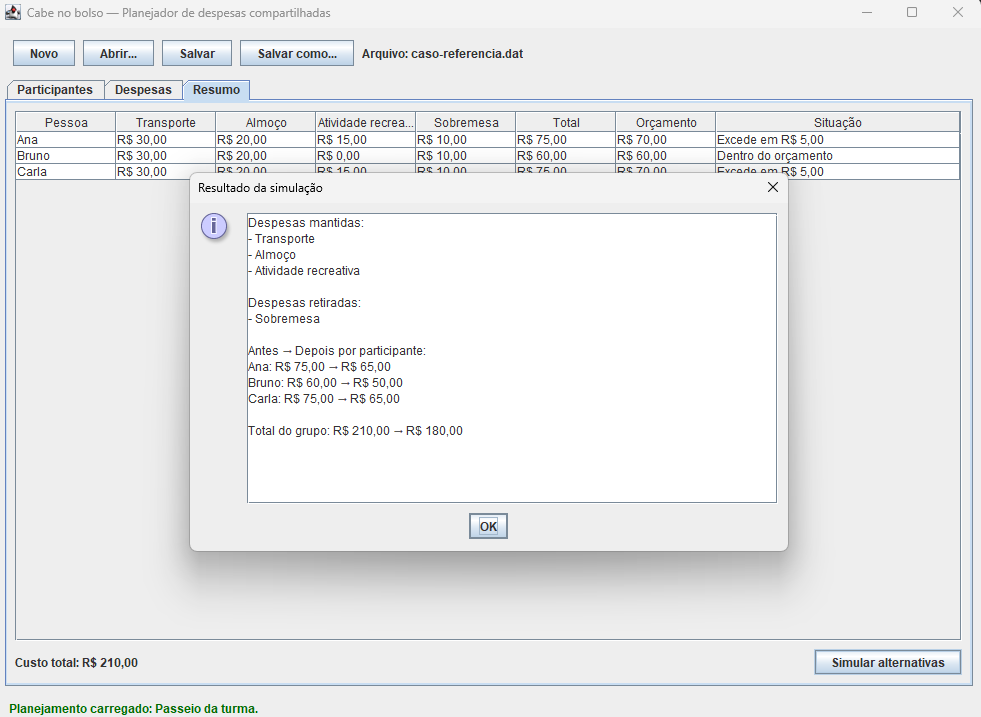
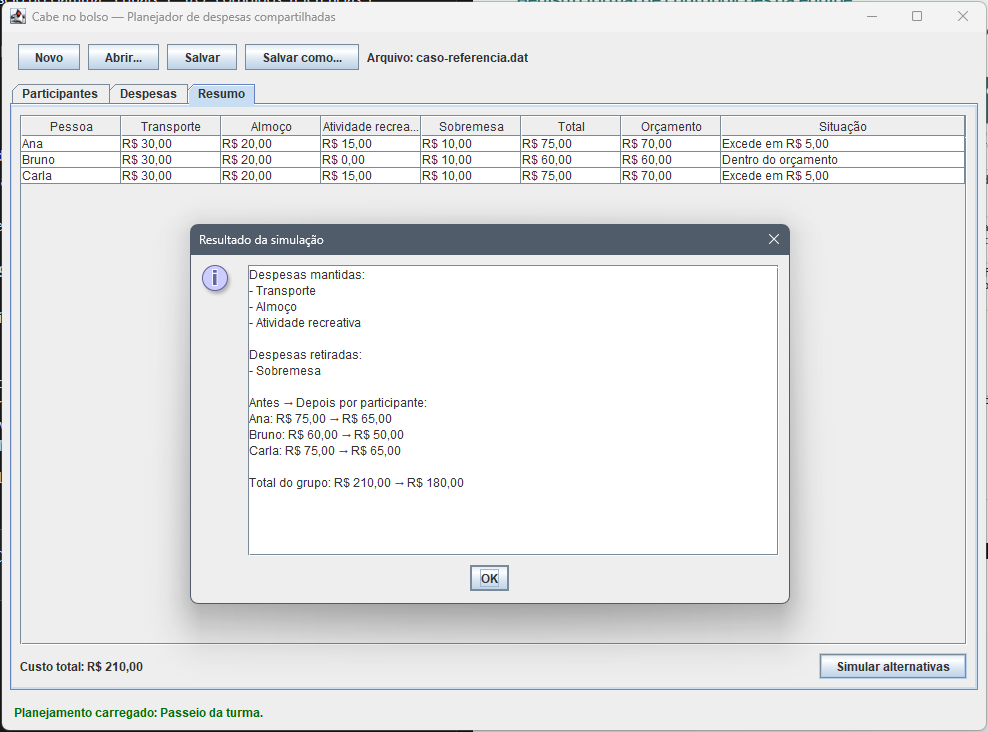
Atualiza evidências do simulador com a versão final e adiciona teste de entrada inválida

Changed region(s): [[0.0, 0.0, 1.0, 1.0], [0.9174, 0.0, 1.0, 0.0307]]

diff --git a/README.md b/README.md
@@ -270,6 +270,9 @@ O simulador mantém as despesas essenciais e testa as combinações de opcionais
 | Caso de referência (0,0,3,1) | Manteve a atividade recreativa e retirou a sobremesa. Ana e Carla ficaram com R$ 65,00 cada, e Bruno com R$ 50,00. O total caiu de R$ 210,00 para R$ 180,00. | [Print](docs/evidencias/bonus-1-caso-referencia.png) |
 | Caso sem solução (Ana com orçamento de R$ 40,00) | Transporte e almoço já custavam R$ 50,00 para Ana. O simulador informou que ela excedia o orçamento em R$ 10,00. | [Print](docs/evidencias/bonus-2-sem-solucao.png) |
 | Cenário extra (Ana com orçamento de R$ 60,00) | Manteve a sobremesa e retirou a atividade recreativa. Os três ficaram com R$ 60,00 cada. O total caiu de R$ 210,00 para R$ 180,00. | [Print](docs/evidencias/bonus-3-cenarioextra.png) |
+| Prioridades inválidas (texto `abc`) | O simulador recusou a entrada com a mensagem "Digite números inteiros separados por vírgulas, como 0, 0, 3, 1." O planejamento continuou igual. | [Print](docs/evidencias/bonus-4-entrada-invalida.png) |
+
+Prints tirados na interface em 27/11/2026, com a versão final do código.
 
 ---
 
